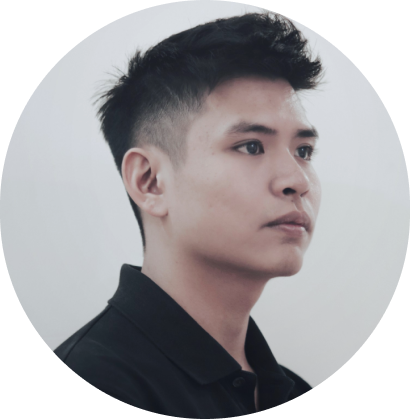
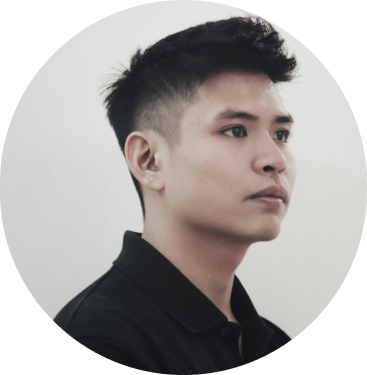
Upload Source Reponsive

diff --git a/index.html b/index.html
@@ -64,8 +64,8 @@
             <section class="AboutMe">
                 <div class="container">
                     <div class="About_Me">
-                        <div data-aos="fade-down-right" data-aos-offset="0"  data-aos-duration="1500" data-aos-delay="200" data-aos-easing="ease-in-out" class="About_Me-info"><img class="Avartar" src="Media/avatar.png" alt=""></div>
-                            <div data-aos="fade-down-left" data-aos-offset="0"  data-aos-duration="1500" data-aos-delay="200" data-aos-easing="ease-in-out" class="About_Me-Content">
+                        <div data-aos="zoom-in-up" data-aos-offset="0"  data-aos-duration="500" data-aos-delay="200" data-aos-easing="ease-in-out" class="About_Me-info"><img class="Avartar" src="Media/avatar0.png" alt=""></div>
+                            <div data-aos="zoom-in-up" data-aos-offset="0"  data-aos-duration="1000" data-aos-delay="200" data-aos-easing="ease-in-out" class="About_Me-Content">
                                 <h1 class="Title">About Me</h1>
                                 <p class="desc">
                                     I ‘ m Frontend Developer  .  I am currenyl working at Epal Solution as Fronten Developer , I love working with UI UX and Web Design  ,  I use Framework Reactjs for JS to create stunning UI and have a good UX for website
@@ -82,17 +82,17 @@
                 <div class="container">
                     <div class="Skill_Webdesign">
                         <img class="Skill_Webdesign-icons" src="Media/webdesign.svg" alt="">
-                        <p class="Skill_Webdesign-title">Web Design</p>
+                        <p class="Skill_Webdesign-title">Web LandingPage</p>
                         <p class="Skill_Webdesign-Title">I do ui/ux design for the website that helps website to get a unique look.</p>
                     </div>
                     <div class="Skill_Webdesign">
                         <img class="Skill_Webdesign-icons" src="Media/webdev.svg" alt="">
-                        <p class="Skill_Webdesign-title">Web Design</p>
+                        <p class="Skill_Webdesign-title">Web Ecommerce</p>
                         <p class="Skill_Webdesign-Title">I do ui/ux design for the website that helps website to get a unique look.</p>
                     </div>
                     <div class="Skill_Webdesign">
                         <img class="Skill_Webdesign-icons" src="Media/Frame.svg" alt="">
-                        <p class="Skill_Webdesign-title">Web Design</p>
+                        <p class="Skill_Webdesign-title">Web Product</p>
                         <p class="Skill_Webdesign-Title">I do ui/ux design for the website that helps website to get a unique look.</p>
                     </div>
                 </div>

diff --git a/SASS/Style/style.css b/SASS/Style/style.css
@@ -436,8 +436,8 @@ path:nth-child(9) {
 }
 
 .AboutMe .container .About_Me-info .Avartar {
-  max-width: 350px;
-  border: 4px solid antiquewhite;
+  max-width: 360px;
+  border: 2px solid #FFFFFF;
   border-radius: 100rem;
 }
 
@@ -450,9 +450,10 @@ path:nth-child(9) {
   font-weight: bold;
   padding-bottom: 10px;
   position: relative;
+  z-index: 2;
 }
 
-.AboutMe .container .About_Me-Content .Title:before {
+.AboutMe .container .About_Me-Content .Title:after {
   content: "";
   position: absolute;
   width: 55%;
@@ -540,5 +541,72 @@ path:nth-child(9) {
   padding-top: 20px;
   font-size: 16px;
   font-weight: 500;
+}
+
+@media only screen and (min-device-width: 375px) and (max-device-height: 667px) {
+  /* Styles */
+  .wrapper .container .Navigation {
+    display: none !important;
+  }
+  .wrapper .container .header {
+    padding-top: 100px;
+  }
+  .wrapper .container .header-logPage img {
+    max-width: 100px;
+  }
+  .wrapper .container .header-content {
+    line-height: 64px;
+  }
+  .wrapper .container .header-content-title, .wrapper .container .header-content-desc {
+    font-size: 20px;
+  }
+  .wrapper .container .header-content-name {
+    font-size: 30px;
+  }
+  .AboutMe {
+    height: auto;
+    padding: 50px 0px !important;
+  }
+  .AboutMe .container .About_Me {
+    display: block;
+  }
+  .AboutMe .container .About_Me-info .Avartar {
+    margin: 0 auto;
+    max-width: 300px;
+  }
+  .AboutMe .container .About_Me-Content {
+    text-align: center;
+    margin: 0 auto;
+  }
+  .AboutMe .container .About_Me-Content .Title {
+    z-index: 2;
+  }
+  .AboutMe .container .About_Me-Content .Title:after {
+    width: 100%;
+    left: 50%;
+    -webkit-transform: translateX(-50%);
+            transform: translateX(-50%);
+  }
+  .AboutMe .container .About_Me-Content .btn {
+    padding: 8px 20px;
+  }
+  .AboutMe .container .About_Me-Content .btn-second {
+    margin: 30px 40px;
+  }
+  .Skill .container {
+    display: block;
+    text-align: center;
+    margin-top: 40px;
+  }
+  .Skill .container .Skill_Webdesign {
+    padding-bottom: 60px;
+  }
+  .Skill .container .Skill_Webdesign-Title {
+    margin: 0 auto;
+  }
+  .intro-Logo {
+    width: 300px;
+    height: 300px;
+  }
 }
 /*# sourceMappingURL=style.css.map */

diff --git a/SASS/Reponsive/_reponsive.scss b/SASS/Reponsive/_reponsive.scss
@@ -1,0 +1,82 @@
+@media only screen and (min-device-width: 375px) and (max-device-height: 667px){
+    /* Styles */
+    
+    .wrapper{
+        // height: 50vh;
+        .container{
+            .Navigation{
+                display: none !important;
+            }
+            .header{
+                padding-top: 100px;
+                &-logPage{
+                    img{
+                        max-width: 100px;
+                    }
+                }
+                &-content{
+                    line-height: 64px;
+                    &-title,&-desc{
+                        font-size: 20px;
+                    }
+                    &-name{
+                        font-size: 30px;
+                    }
+                }
+            }
+        }
+    }
+    .AboutMe{
+        height: auto;
+        padding: 50px 0px !important;
+        .container{
+            .About_Me{
+                display: block;
+                &-info{
+                    .Avartar{
+                        margin: 0 auto;
+                        max-width: 300px;
+                    }
+                }
+                &-Content{
+                    text-align: center;
+                    margin: 0 auto;
+                    .Title{
+                        z-index: 2;
+                        &:after{
+                            width: 100%;
+                            left: 50%;
+                            transform: translateX(-50%);
+                        }
+                    }
+                    .btn{
+                        padding: 8px 20px;
+                        &-second{
+                            margin: 30px 40px;
+                        }
+                    }
+                }
+            }
+        }
+    }
+    .Skill{
+        .container{
+            display: block;
+            text-align: center;
+            margin-top: 40px;
+            .Skill_Webdesign{
+                padding-bottom: 60px;
+                &-Title{
+                    margin: 0 auto;
+                }
+            }
+        }
+    }
+    .intro{
+        &-Logo{
+            width: 300px;
+            height: 300px;
+        }
+    }
+}
+    

diff --git a/SASS/layout/_AboutMe.scss b/SASS/layout/_AboutMe.scss
@@ -12,8 +12,8 @@
             display: flex;
             &-info{
                 .Avartar{
-                    max-width: 350px;
-                    border: 4px solid antiquewhite;
+                    max-width: 360px;
+                    border: 2px solid #FFFFFF;
                     border-radius: 100rem;
                 }
             }
@@ -26,7 +26,8 @@
                     };
                     padding-bottom: 10px;
                     position: relative;
-                    &:before{
+                    z-index: 2;
+                    &:after{
                         content: "";
                         position: absolute;
                         width: 55%;

diff --git a/SASS/Style/style.scss b/SASS/Style/style.scss
@@ -207,3 +207,4 @@ path:nth-child(9){
 @import '../layout/header';
 @import '../layout/AboutMe';
 @import '../layout/Skill';
+@import '../Reponsive/reponsive';

diff --git a/SASS/layout/_header.scss b/SASS/layout/_header.scss
@@ -1,5 +1,4 @@
 
-
 .wrapper{
     width: 100%;
     height: 100vh;
